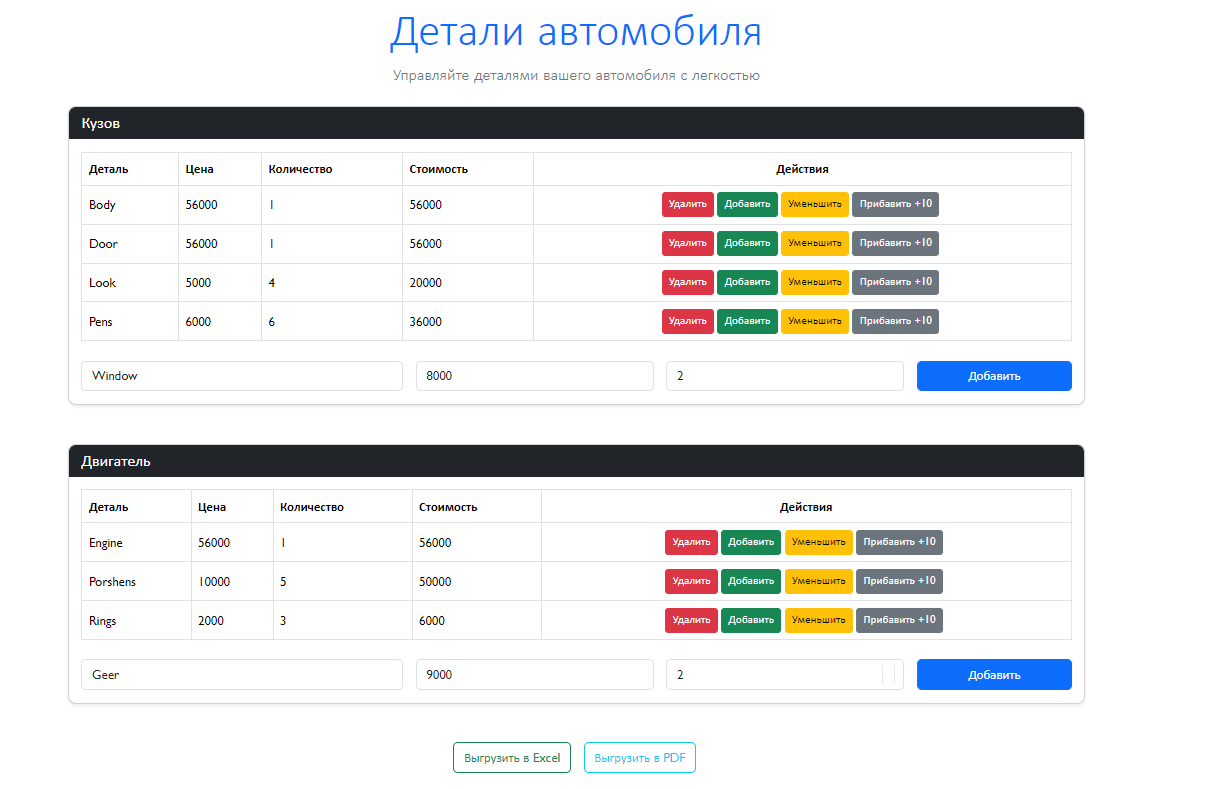
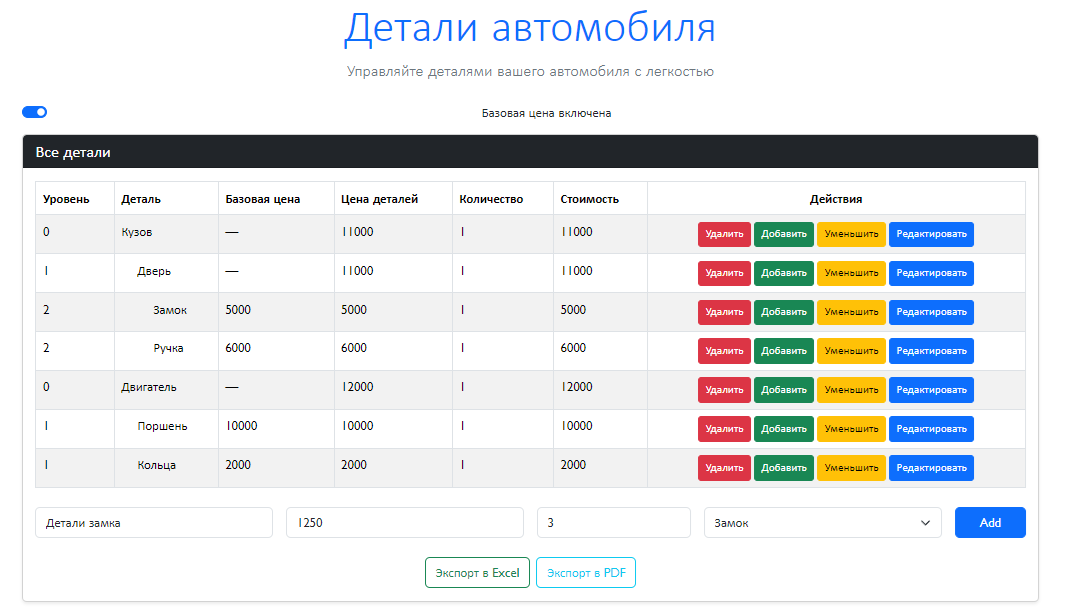
Right

diff --git a/src/views/CarPartsPage.vue b/src/views/CarPartsPage.vue
@@ -204,7 +204,6 @@ addPart(id: string) {
   };
   findAndUpdate(this.parts);
 },
-
 calculateDetailPrice(part: Part): number {
   if (part.children && part.children.length > 0) {
     return part.children.reduce(
@@ -214,12 +213,16 @@ calculateDetailPrice(part: Part): number {
   }
   return part.price;
 },
-
-    calculateTotal(part: Part): number {
-      const detailPrice = this.calculateDetailPrice(part);
-      const basePrice = this.includeBasePrice ? part.price : 0;
-      return (basePrice + detailPrice) * part.quantity;
-    },
+calculateTotal(part: Part): number {
+  const detailPrice = this.calculateDetailPrice(part);
+  // Если ползунок включен, берем наибольшую сумму
+  if (this.includeBasePrice) {
+    const basePrice = part.price;
+    return Math.max(basePrice, detailPrice) * part.quantity;
+  }
+  // Если ползунок выключен, просто сумма деталей
+  return detailPrice * part.quantity;
+},
     flattenParts(parts: Part[], level: number): { part: Part; level: number }[] {
   const flatten = (parts: Part[], level: number): { part: Part; level: number }[] => {
     return parts.reduce((acc: { part: Part; level: number }[], part: Part) => {
@@ -256,17 +259,25 @@ calculateDetailPrice(part: Part): number {
       findAndUpdate(this.parts);
     },
     exportToExcel() {
-  const partsForExport = this.flattenParts(this.parts, 0).map(({ part }) => ({
-    ...part,
-    summ: this.calculateTotal(part),
+  // Формируем данные для экспорта
+  const partsForExport = this.flattenParts(this.parts, 0).map(({ part, level }) => ({
+    Уровень: level, // Добавляем уровень
+    Название: part.name, // Название детали
+    'Базовая цена': part.price > 0 ? part.price : '—', // Базовая цена
+    'Цена деталей': this.calculateDetailPrice(part), // Цена всех вложенных деталей
+    Количество: part.quantity, // Количество
+    Стоимость: this.calculateTotal(part), // Итоговая стоимость
   }));
 
+  // Создаём лист Excel
   const worksheet = XLSX.utils.json_to_sheet(partsForExport);
   const workbook = XLSX.utils.book_new();
   XLSX.utils.book_append_sheet(workbook, worksheet, 'Детали');
 
+  // Сохраняем файл
   XLSX.writeFile(workbook, 'car_parts.xlsx');
-},
+}
+,
 exportToPDF(): void {
   const doc = new jsPDF();
 
@@ -277,17 +288,21 @@ exportToPDF(): void {
 
   // Заголовок
   doc.setFontSize(24);
-  doc.text('Детали машины', 10,10);
+  doc.text('Детали машины', 10, 10);
 
-  const tableData = this.flattenParts(this.parts, 0).map(({ part }) => [
-    part.name,
-    part.price.toString(),
-    part.quantity.toString(),
-    this.calculateTotal(part).toString(),
+  // Формирование данных для таблицы
+  const tableData = this.flattenParts(this.parts, 0).map(({ part, level }) => [
+    level, // Уровень
+    part.name, // Название
+    part.price > 0 ? part.price : '—', // Базовая цена
+    this.calculateDetailPrice(part), // Цена деталей
+    part.quantity, // Количество
+    this.calculateTotal(part), // Итоговая стоимость
   ]);
 
+  // Настройки таблицы
   const options: AutoTableOptions = {
-    head: [['Деталь', 'Базовая цена', 'Количество', 'Стоимость']],
+    head: [['Уровень', 'Деталь', 'Базовая цена', 'Цена деталей', 'Количество', 'Стоимость']],
     body: tableData,
     startY: 20,
     styles: {
@@ -304,14 +319,17 @@ exportToPDF(): void {
     },
   };
 
+  // Генерация таблицы и сохранение файла
   doc.autoTable(options);
   doc.save('car_parts.pdf');
-},
+}
+,
   },
 });
 </script>
 
 <style>
+
 .btn-sm {
     --bs-btn-padding-y: 0.25rem;
     --bs-btn-padding-x: 0.5rem;

diff --git a/README.md b/README.md
@@ -32,7 +32,23 @@ npm run serve
 5. Быть готовым пояснить что и как написано в коде.
 6. Предпочтительно сделать на VueJS, BootstrapVue, TypeScript 
 
+### Ответы
+1. Значения можно изменять через CRUD.
+2. Дочерние элементы можно добавлять, при этом уровень элемента увеличивается. Базовая цена формируется суммированием значений дочерних элементов. Как только создаётся дочерний элемент, его родитель автоматически принимает значение unknown.
+3. Верхний ползунок убирает столбец "Базовая цена", однако значение базовой цены всегда остаётся исходным. Изначально дочерние элементы имеют собственные значения, но после добавления к ним новых дочерних элементов (ниже по уровню) они теряют базовые значения, поскольку их значение формируется на основе дочерних элементов нижнего уровня.
+4. Вывод ниже на PDF и EXCEL
+ 
+### Рекомендаций
+1. Разделение кода на маленкие куски например расчеты в utils/part(calculate)
+2. Декомпозиция компонентов в components/partstable:newparte
+3. Можно исползоват мемоизация (устранения повторных вызовов методов путем кэширований) в моем случае calculatetotal и calculatedetailprice
+4. Улучшение UI/UX интерфейса
+5. Улучшение PDF и EXCEL можно добавлять логотипы и отчеты ,генераций ,дополнительные информаций об PDF
+6. Можно интегрировать с другими API
+7. Можно написать тесты на JEST, Vue Test Utils 
+
 ### Результаты
-![До внесений изменений выполнен по условиям задачи CRUD](images/1.png)
-![После изменений данных результаты соответствует условиям задачи](images/2.png)
-![Данные в EXCEL и PDF](images/3.png)
+![](images/1.png)
+![](images/2.png)
+![](images/3.png)
+![](images/4.png)
